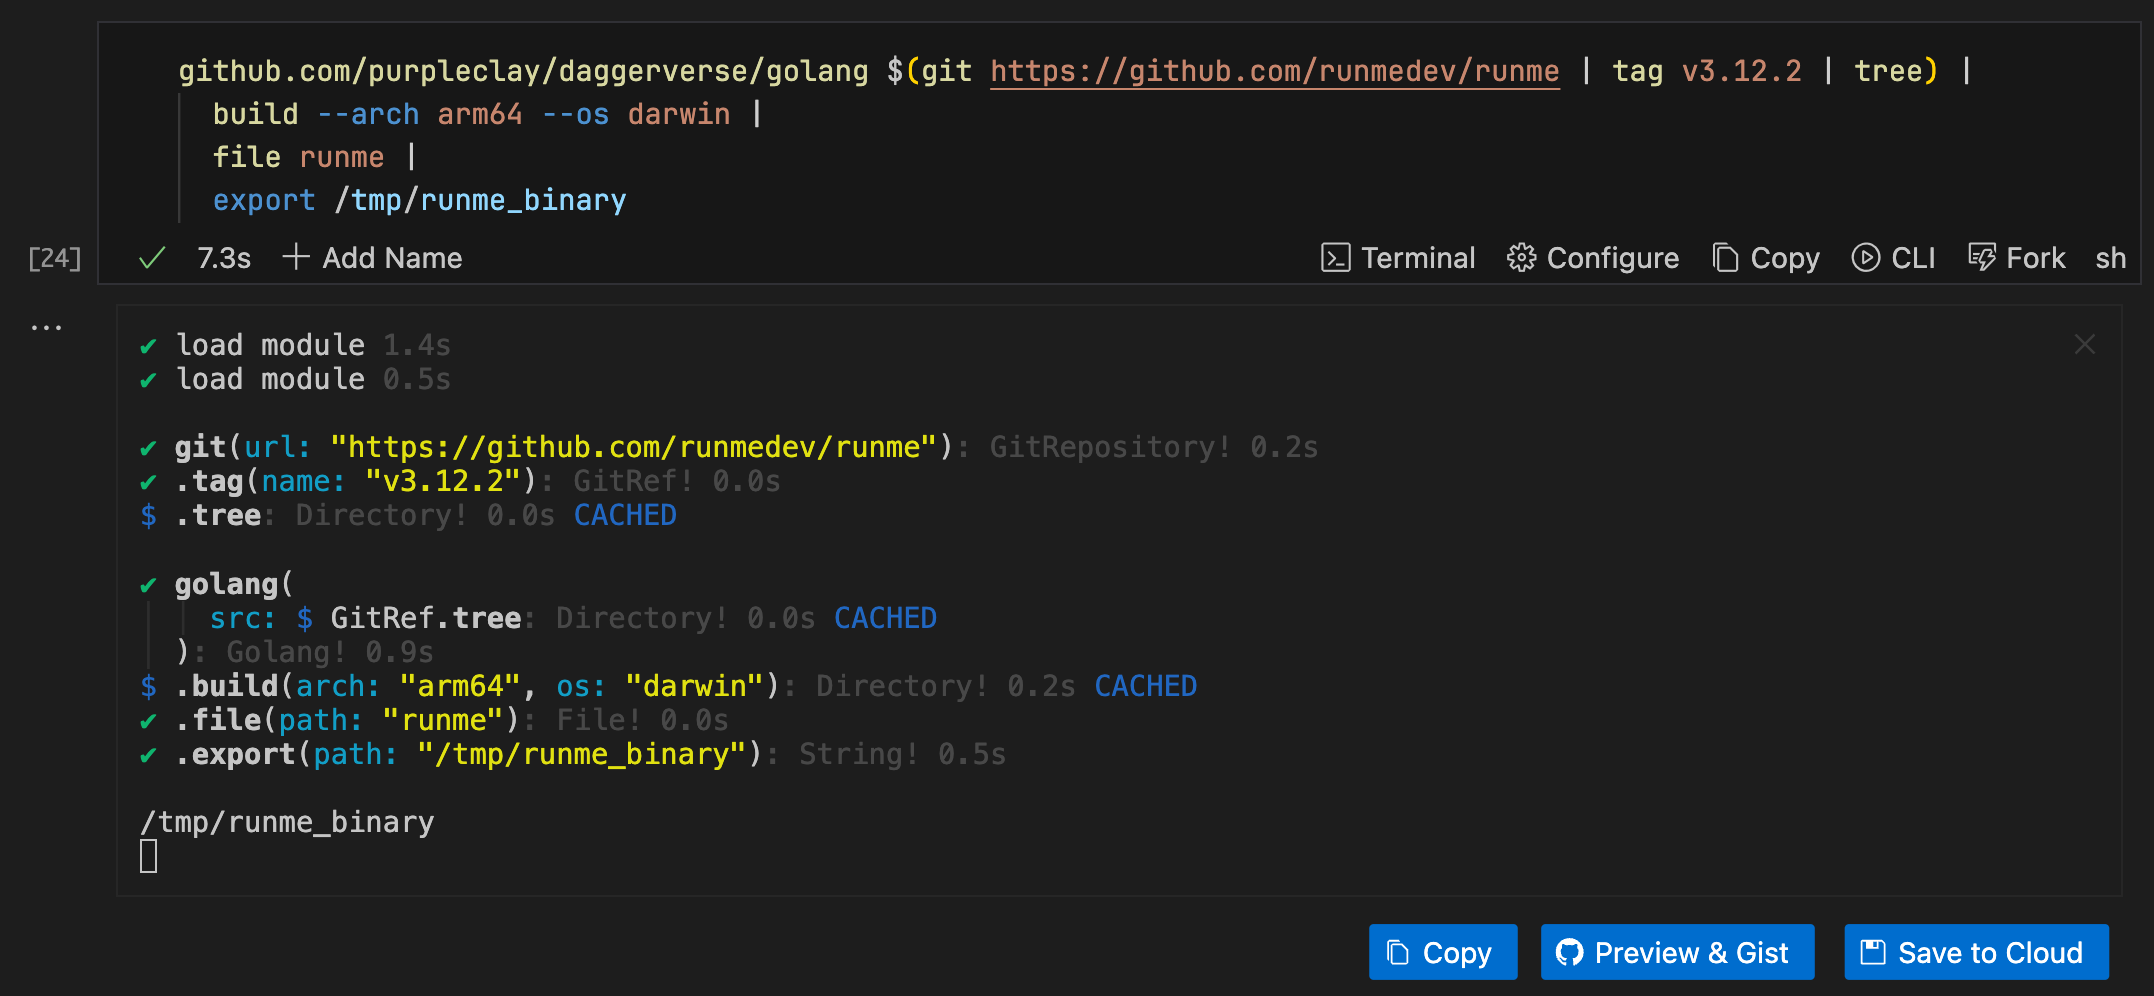
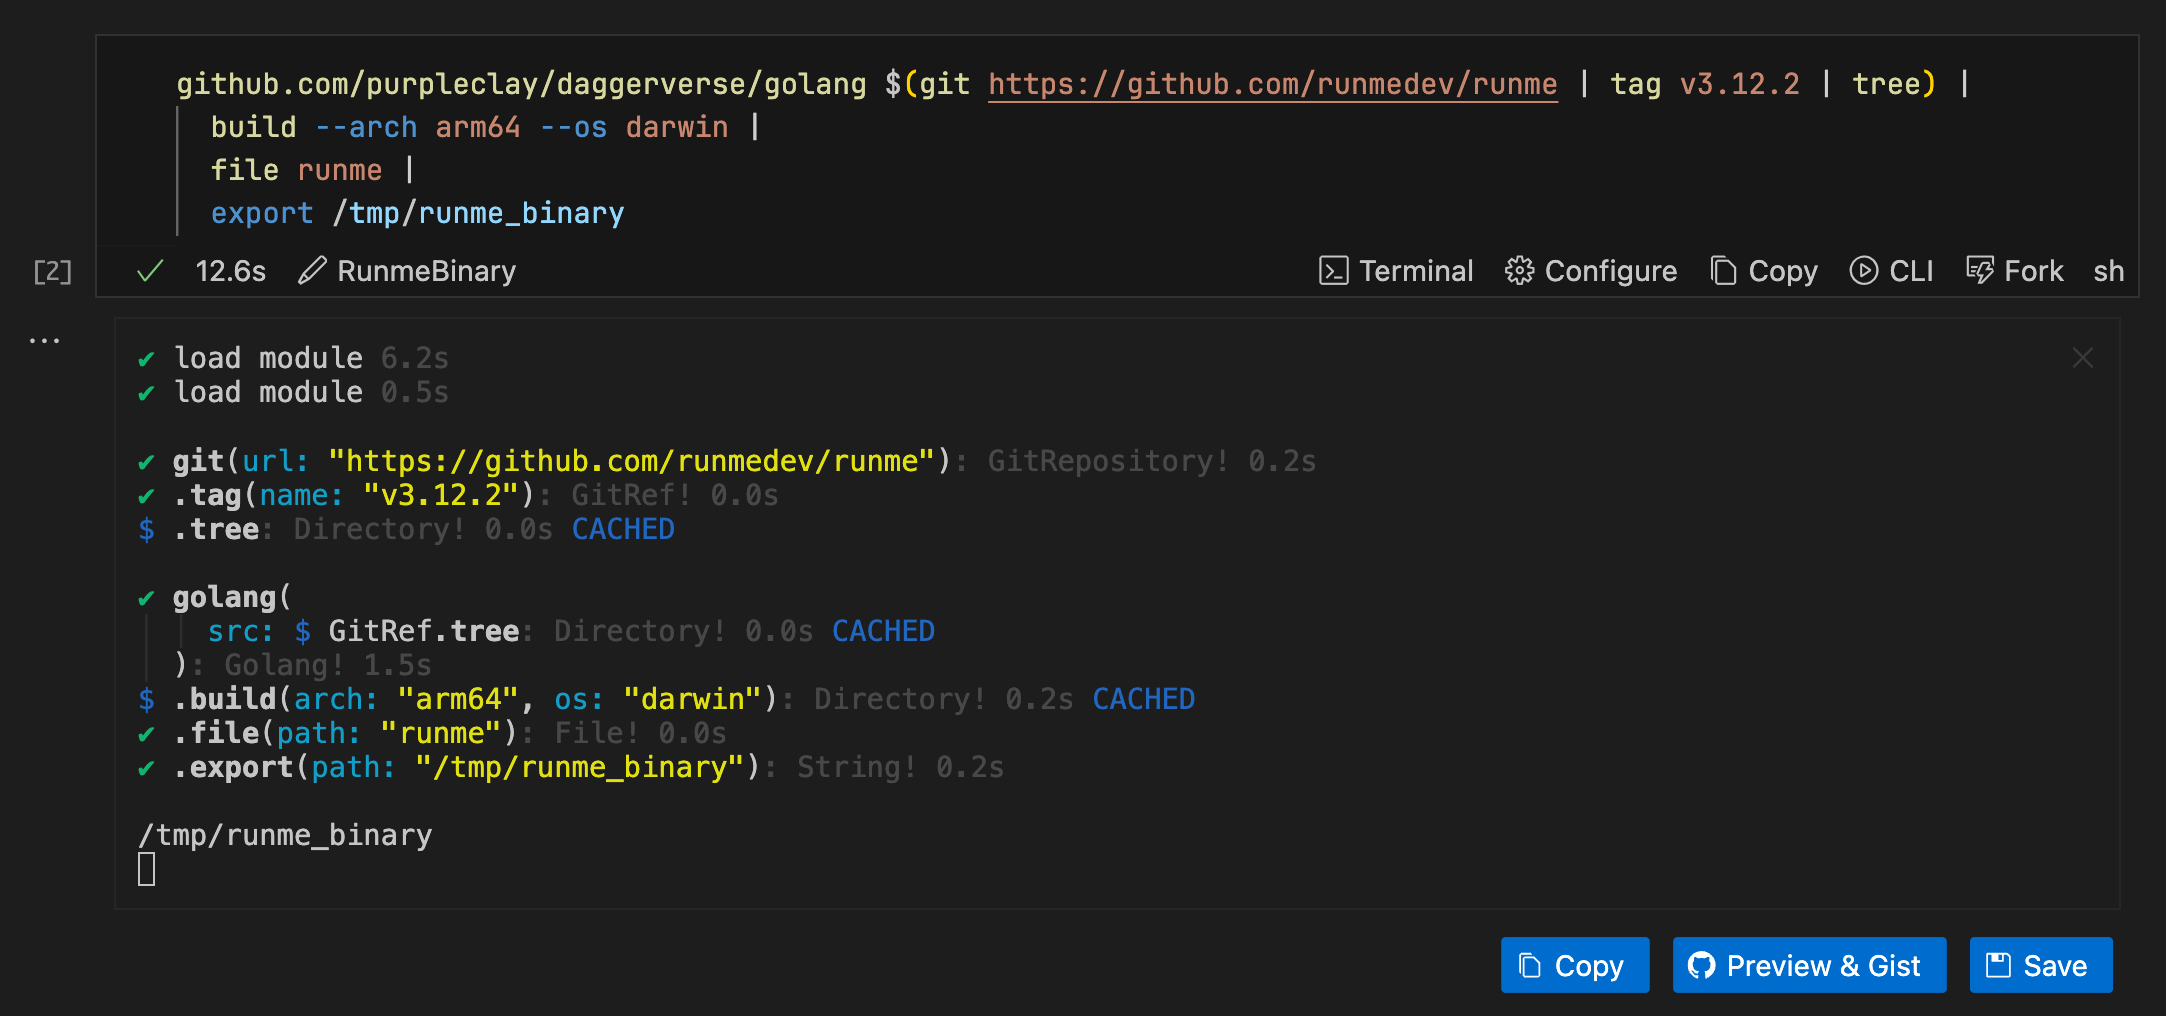
Explain Runme for Dagger Shell

diff --git a/docs/guide/dagger.md b/docs/guide/dagger.md
@@ -5,11 +5,11 @@ title: Dagger
 
 # Runme for Dagger
 
-In this guide, we will explain step-by-step how to integrate Dagger into Runme and how it works.
+In this guide, we will explain step-by-step how to leverage both Dagger Shell and "Dagger Call" integrations into Runme and how it works.
 
 ## Getting Started
 
-To proceed with this guide, it is crucial to carry out the following actions:
+To proceed with this guide, it is crucial to install Dagger first:
 
 - **Install Runme**
 
@@ -23,7 +23,7 @@ Get Docker installed and running on your local machine. You can download Docker 
 
 Install Dagger on your local machine. The [Dagger installation guide](https://docs.dagger.io/install/) provides more information on how to install Dagger on any platform of your choice. if you have brew installed already run the command below to install dagger
 
-```sh {"id":"01J6CH26D7HCJXVZXA2CATX4A2"}
+```sh
 brew install dagger/tap/dagger
 ```
 
@@ -31,13 +31,13 @@ brew install dagger/tap/dagger
 
 Dagger shell is the latest interface for interacting with Dagger. If you're looking for `dagger call`, please see futher down in this guide. While it's up to personal preference, we recommend using Dagger Shell to express your Dagger pipelines. Its syntax is more concise and easier to read. For a complete introduction to Dagger shell, please visit the [Dagger docs](https://docs.dagger.io/).
 
-### Your first Dagger Shell notebook
-
 Of course, Runme can always bring up an instance of Dagger shell using the following command. This will drop you into a REPL prompt interface interface.
 
-```sh {"id":"01J6CH26D7HCJXVZXA2CATX4A2"}
-dagger shell
+```sh
+$ dagger shell
 ```
+
+### Your first Dagger Shell notebook
 
 While a shell session is great during interactive development, Runme notebooks excel at expressing Dagger pipelines in a self-documenting manner. This is useful to document tasks, workflows, onboarding instructions, or the beaten path of your Dagger pipelines.
 
@@ -50,13 +50,13 @@ There are two ways to get started with the native integration with Dagger shell:
 
 ![dagger shell in frontamtter](/img/integration/runme-dagger-shell-frontmatter.png)
 
-### What to expect from Dagger Shell-native Notebooks
+### Running Dagger Shell-native in Notebook Cells
 
-Here's a quick rundown. For a end-to-end example, please see [README.md](https://github.com/runmedev/docs.runme.dev/blob/main/dagger/README.md).
+Here's a quick rundown how to run a Dagger Module via the Dagger Shell inside a cell. For a end-to-end example, please see [README.md](https://github.com/runmedev/docs.runme.dev/blob/main/dagger/README.md).
 
 Following simple snippet will build the runme binary for tag v3.12.2 and export it to a temporary file. While the language is Dagger shell, the syntax is standard shell compatible. Much like how `bash` or `zsh` are just `sh`.
 
-```sh {"interpreter":"dagger shell","terminalRows":"16"}
+```sh {"interpreter":"dagger shell","name":"RunmeBinary","terminalRows":"16"}
 github.com/purpleclay/daggerverse/golang $(git https://github.com/runmedev/runme | tag v3.12.2 | tree) |
   build --arch arm64 --os darwin |
   file runme |
@@ -67,9 +67,48 @@ Running the above snippet will produce the following output and drop a binary at
 
 ![build runme binary via dagger shell](/img/integration/runme-dagger-shell-snippet.png)
 
-## Alternative Dagger Call
+### Run the same cell with Runme CLI
 
-Dagger CLI is an alternative core interface used to interact with Dagger’s functions. You can chain commands and build entire DevOps pipelines by calling dagger functions from the CLI.
+In case where opening the notebook interface is not ideal, you can run the same cell with the Runme CLI by running the following command:
+
+```sh
+$ runme run RunmeBinary
+```
+
+![build runme binary via named cell](/img/integration/runme-dagger-shell-named.png)
+
+### Compose Pipelines Chaining Cells
+
+Shell expression syntax in Dagger Shell allows you to chain cells together. This is useful when you want to build more complex pipelines. The ability to build pipelines incrementally or build individual artifacts in isolation is a powerful feature for development, troubleshooting, and testing.
+
+```sh {"interpreter":"dagger shell","name":"RunmeVersion"}
+git https://github.com/runmedev/runme | tag v3.12.2 | tree
+```
+
+This exports a reference to Runme's git repository at the tag `v3.12.2` under `RunmeVersion`. In turn, this reference can be used with a shell expression to build the runme binary in separate cell.
+
+```sh {"interpreter":"dagger shell","name":"RunmeBinary"}
+github.com/purpleclay/daggerverse/golang $(RunmeVersion) |
+  build |
+  file runme |
+  export /tmp/runme_binary
+```
+
+Running the `RunmeBinary` cell in the notebook or the Runme CLI will produce the following output and drop a Runme binary at `/tmp/runme_binary`.
+
+![build runme binary referencing the version](/img/integration/runme-dagger-shell-reference.png)
+
+To make the reference names clear, Runme will automatically add comments to a cell's markdown representation.
+
+![dagger shell cells exported with names](/img/integration/runme-dagger-shell-reference-comment.png)
+
+This allows pipelines to be expressed incrementally, cell-by-cell, and still be clear, readable, and most of all, executable across notebooks, editor, and the CLI.
+
+Please check out the Runme Extension's [shell.dag](https://github.com/runmedev/vscode-runme/blob/main/dagger/notebook/shell.dag) for a more comprehensive example.
+
+## Alternative Interface: "dagger call"
+
+Dagger CLI is an alternative core interface used to interact with Dagger’s functions. You can chain commands and build entire DevOps pipelines by calling dagger functions from the CLI. While we do recommend using Dagger Shell, this CLI interface is still useful.
 
 This section will explore navigating the Dagger CLI in your Runme Notebooks. We will explain how it works in detail.
 
@@ -79,7 +118,7 @@ Runme Notebook interface includes a terminal environment with [additional featur
 
 Let’s explore the code block below.
 
-```sh {"id":"01J5TMAKC9QEMWB806SC1V5WH9"}
+```sh
 dagger call \
     -m github.com/purpleclay/daggerverse/golang@v0.3.0 \
     --src "https://github.com/runmedev/runme#main" \
@@ -98,7 +137,7 @@ Output:
 
 This output shows the steps executed by Dagger, which successfully performed the tasks in the code block.
 
-### Runme Interactive CLI UX
+### Run with Runme CLI
 
 Runme offers additional support for the Dagger CLI by providing options and support based on the context of your current task.
 
@@ -108,10 +147,10 @@ When you insert a Dagger command into a Runme cell, Runme automatically provides
 
 To retrieve the file's name, click on `Name`. A code block similar to the one below will be created and automatically run to display the file's name.
 
-```sh {"id":"01J5TMAKC9QEMWB806SD1HE7V2"}
+```sh
 dagger call \
     -m github.com/purpleclay/daggerverse/golang@v0.3.0 \
-    --src "https://github.com/stateful/runme#main" \
+    --src "https://github.com/runmedev/runme#main" \
     build \
         --arch $(go env GOARCH) \
         --os $(go env GOOS) \
@@ -121,7 +160,7 @@ dagger call \
 
 To get the size of your file, click on `size`. A code block similar to the one below will be created and automatically run to display the size of your file.
 
-```sh {"id":"01J5TMAKC9QEMWB806SGS12GGQ"}
+```sh
 dagger call --progress=$PROGRESS \
   -m golang \
   --src ../runme \
@@ -132,22 +171,22 @@ dagger call --progress=$PROGRESS \
 
 To view the contents of your file, click on `content`. A code block similar to the one below will be created and automatically run to display the contents of your file.
 
-```sh {"id":"01J6CGP8A99T2G7DAH034553Y3"}
+```sh
 # This code block will show the contents of your specified file
 dagger call \
     -m github.com/purpleclay/daggerverse/golang@v0.3.0 \
-    --src "https://github.com/stateful/runme#main" \
+    --src "https://github.com/runmedev/runme#main" \
     file \
     --path runme contents
 ```
 
 To export your file, click on `export`. First, you will be prompted to choose where you'd like to save the file, and the file path will be displayed. After selecting the location, a code block similar to the one below will be created and automatically run to export your file.
 
-```sh {"id":"01J6CGXQT45FJABBDFKYFE2EXW"}
+```sh
 # This code block will export the specified file from your project
 dagger call \
     -m github.com/purpleclay/daggerverse/golang@v0.3.0 \
-    --src "https://github.com/stateful/runme#main" \
+    --src "https://github.com/runmedev/runme#main" \
     build \
         --arch $(go env GOARCH) \
         --os $(go env GOOS) \

diff --git a/dagger/README.md b/dagger/README.md
@@ -1,8 +1,5 @@
 ---
 cwd: ..
-runme:
-  id: 01JBWW23ENADYZXX5KFGME12KR
-  version: v3
 shell: dagger shell
 terminalRows: 20
 ---
@@ -22,25 +19,26 @@ host | directory "."
 
 See what functions are available in the `docs` module, and how to use them.
 
-```sh {"id":"01JBW9KGZT5XE4B0G1Z8GK1239","terminalRows":"15"}
+```sh {"terminalRows":"15"}
 . $(LocalSite) | .help
 ```
 
 Inspect a local instance of the docs before deploying it to the cloud.
 
-```sh {"background":"true","id":"01JBWGTT8R91VNCV1JSG8KF1K5","name":"ServeLocally"}
-### Exported in runme.dev as ServeLocally
+```sh {"background":"true","name":"LocalService"}
+### Exported in runme.dev as LocalService
 . $(LocalSite) | serve | up --random=true
 ```
 
 ## Deploy a docs site preview
 
-```sh {"id":"01JBWVFDXVDBBMRQAQA61NN6CB","interpreter":"bash","terminalRows":"3"}
+```sh {"interpreter":"bash","terminalRows":"3"}
 echo "Deploying preview into \"${DOCS_GCP_PROJECT_ID}\" in \"${DOCS_GCP_REGION}\" via artifacts repo \"${DOCS_GCP_ARTIFACTS_REPO}\"."
 ```
 
 This will deploy a preview of the docs site to the cloud. The last positional argument has no leading `$` because it's a secret.
 
-```sh {"background":"false","id":"01JBWA2741XJE0KZZTGP7P1WKB"}
+```sh {"background":"false","name":"PreviewSite"}
+### Exported in runme.dev as PreviewSite
 . $(LocalSite) | deploy $DOCS_GCP_PROJECT_ID $DOCS_GCP_REGION $DOCS_GCP_ARTIFACTS_REPO DOCS_GCP_CREDENTIALS
 ```
